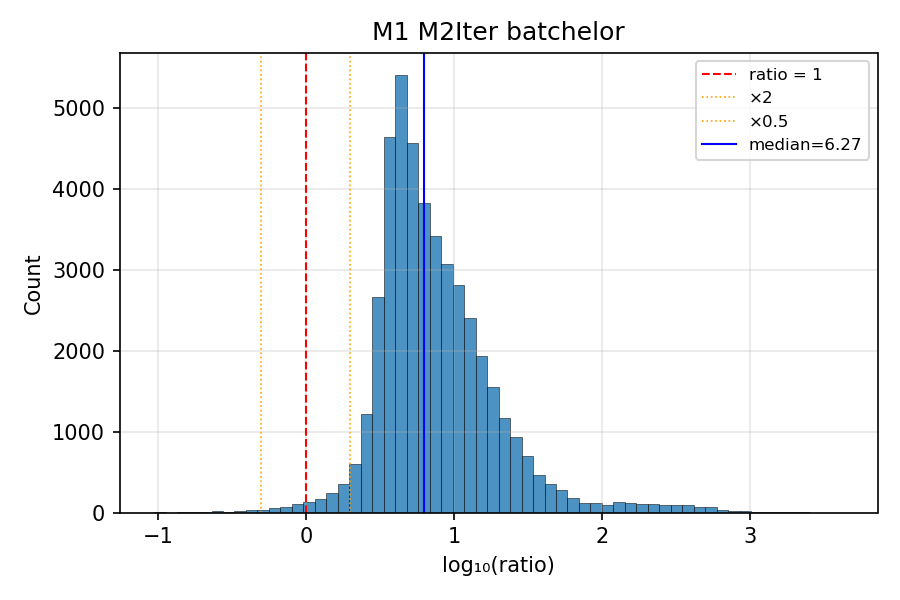
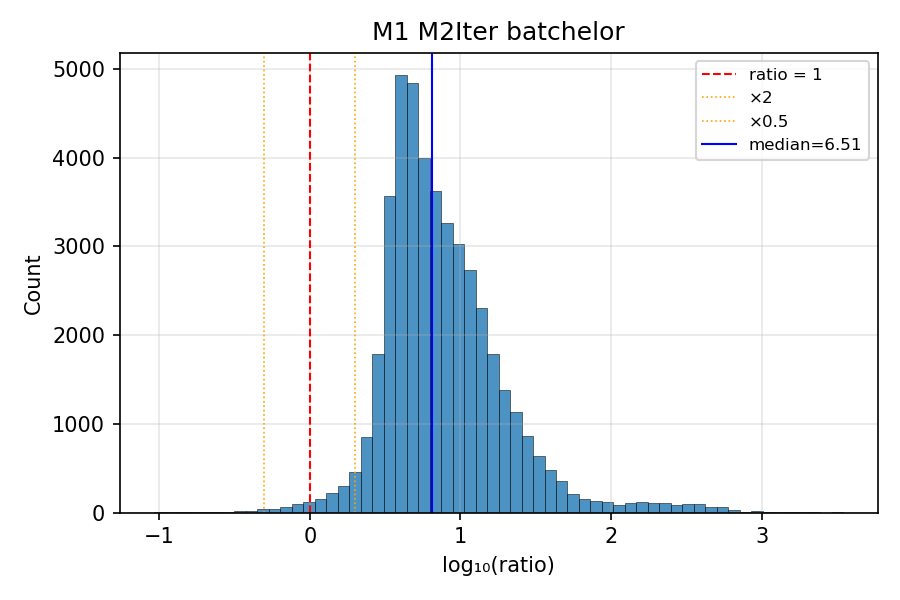
feat: FOM-filtered mean epsilon for chi Method 1
Use FOM-filtered mean of all shear probes (rather than per-thermistor
indexing) when computing chi from epsilon. Update chi comparison docs
and plots with new results.

diff --git a/src/odas_tpw/rsi/window.py b/src/odas_tpw/rsi/window.py
@@ -261,6 +261,8 @@ def compute_chi_window(
     spectrum_model: str = "kraichnan",
     fp07_model: str = "single_pole",
     epsilon: np.ndarray | None = None,
+    fom: np.ndarray | None = None,
+    fom_limit: float = 1.15,
     method: int = 1,
 ) -> ChiWindowResult:
     """Compute chi for one dissipation window.
@@ -288,8 +290,14 @@ def compute_chi_window(
         'batchelor' or 'kraichnan'.
     fp07_model : str
         'single_pole' or 'double_pole'.
-    epsilon : ndarray or None, shape (n_therm,)
+    epsilon : ndarray or None, shape (n_shear,)
         Per-probe epsilon for Method 1.  None → Method 2 (iterative fit).
+    fom : ndarray or None, shape (n_shear,)
+        Per-probe figure of merit for epsilon estimates.  When provided
+        with method=1, epsilon is filtered to probes with fom <= fom_limit
+        and averaged.  The same mean epsilon is used for all thermistors.
+    fom_limit : float
+        Maximum acceptable FOM for including an epsilon in the mean.
     method : int
         1 = chi from epsilon (requires epsilon), 2 = iterative fit.
     """
@@ -323,6 +331,21 @@ def compute_chi_window(
     model_specs: list[np.ndarray] = []
     model_specs_raw: list[np.ndarray] = []
 
+    # FOM-filtered mean epsilon for Method 1
+    eps_for_m1 = np.nan
+    if method == 1 and epsilon is not None:
+        eps = np.asarray(epsilon, dtype=float)
+        valid = np.isfinite(eps) & (eps > 0)
+        if fom is not None:
+            eps_fom = np.asarray(fom, dtype=float)
+            good = valid & np.isfinite(eps_fom) & (eps_fom <= fom_limit)
+            if np.any(good):
+                eps_for_m1 = float(np.mean(eps[good]))
+            elif np.any(valid):
+                eps_for_m1 = float(np.mean(eps[valid]))
+        elif np.any(valid):
+            eps_for_m1 = float(np.mean(eps[valid]))
+
     for ci in range(n_therm):
         seg = therm_segs[ci]
         if len(seg) < 2 * fft_length:
@@ -340,7 +363,7 @@ def compute_chi_window(
         noise_K_ci, _ = gradT_noise(F, T_mean, W, fs=fs_fast, diff_gain=dg)
 
         if method == 1 and epsilon is not None:
-            eps_ci = epsilon[ci] if ci < len(epsilon) else np.nan
+            eps_ci = eps_for_m1
             if np.isfinite(eps_ci) and eps_ci > 0:
                 chi_val, kB, K_max, spec_raw, fom_val, Kmr = _chi_from_epsilon(
                     spec_obs,

diff --git a/scripts/compare_chi_methods.py b/scripts/compare_chi_methods.py
@@ -133,7 +133,8 @@ def process_file(
                 cr_m1 = compute_chi_window(
                     therm_segs, diff_gains, er.W, mean_T, er.nu,
                     pf.fs_fast, fft_length, f_AA_chi,
-                    spectrum_model=spectrum_model, epsilon=er.epsilon, method=1,
+                    spectrum_model=spectrum_model, epsilon=er.epsilon,
+                    fom=er.fom, method=1,
                 )
                 cr_m2 = compute_chi_window(
                     therm_segs, diff_gains, er.W, mean_T, er.nu,

diff --git a/docs/chi/chi_comparison.md b/docs/chi/chi_comparison.md
@@ -26,9 +26,9 @@ a multiplicative scale.
 
 | Ratio | N | Median | Mean | Std | Q5 | Q95 |
 |:------|--:|-------:|-----:|----:|---:|----:|
-| M1_M2Iter_batchelor | 44786 | 6.273 | 17.574 | 0.416 (log10) | 2.521 | 39.041 |
-| M1_M2Iter_kraichnan | 44786 | 8.618 | 29.700 | 0.482 (log10) | 2.536 | 66.178 |
-| M1_kr_ba | 44786 | 1.448 | 1.438 | 0.072 (log10) | 1.044 | 1.786 |
+| M1_M2Iter_batchelor | 44786 | 6.515 | 17.806 | 0.417 (log10) | 2.532 | 39.111 |
+| M1_M2Iter_kraichnan | 44786 | 9.011 | 30.141 | 0.479 (log10) | 2.580 | 66.351 |
+| M1_kr_ba | 44786 | 1.459 | 1.452 | 0.067 (log10) | 1.077 | 1.788 |
 | M2_Iter_kr_ba | 44786 | 1.043 | 1.056 | 0.021 (log10) | 1.017 | 1.129 |
 
 ## Histograms
